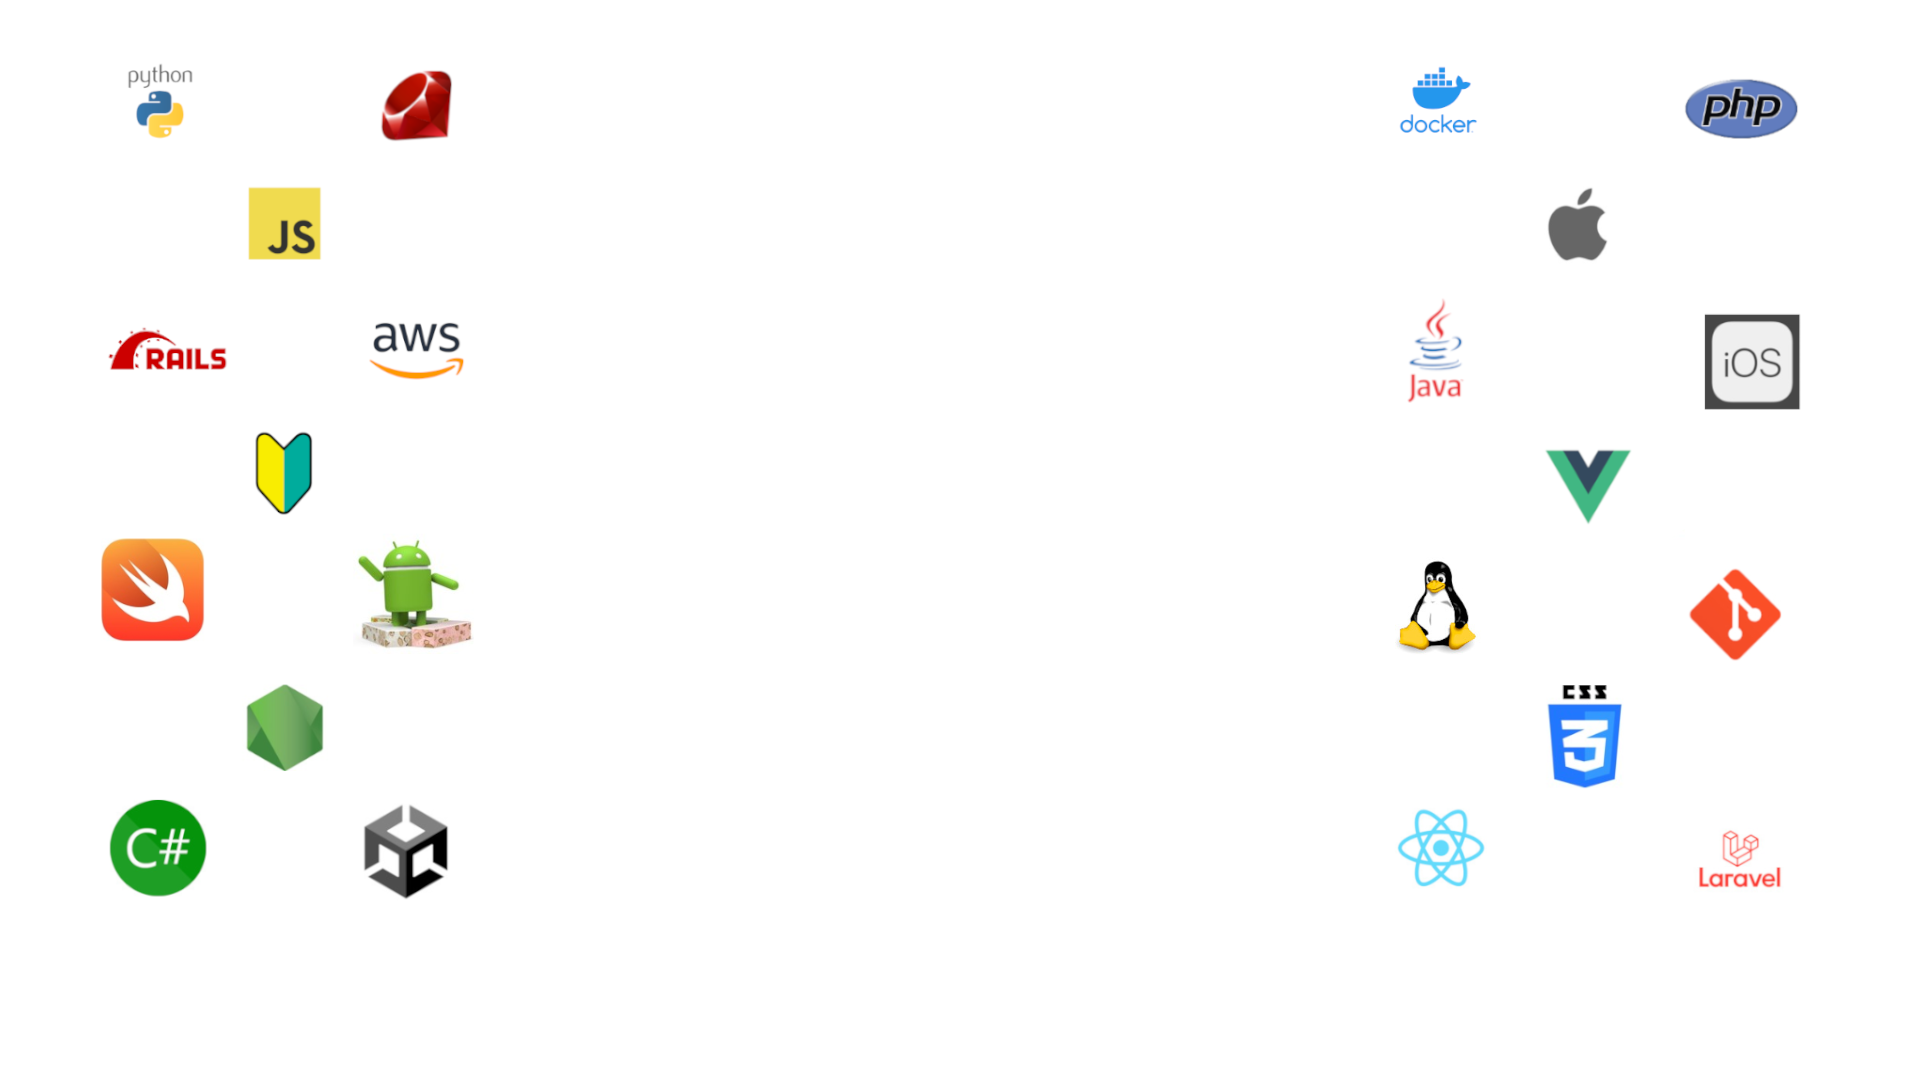
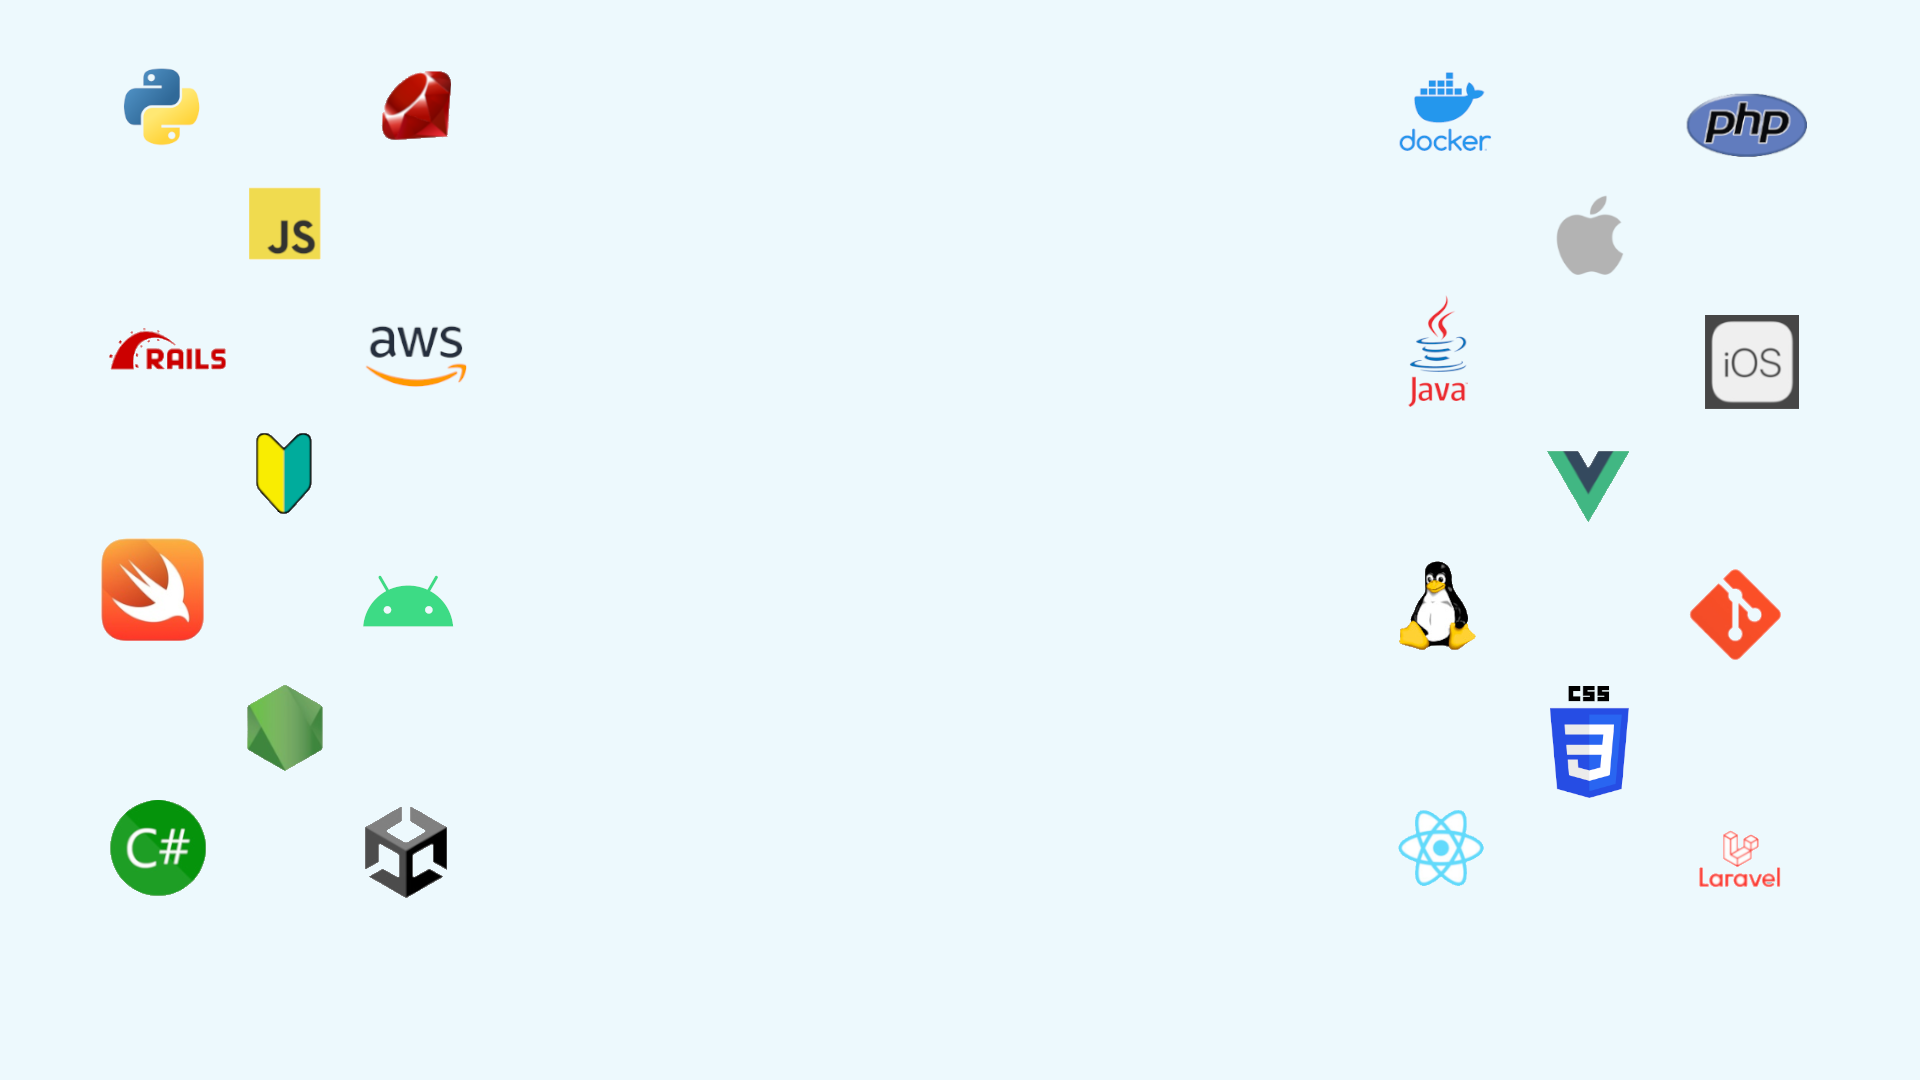
背景画像を修正

diff --git a/index.html b/index.html
@@ -146,12 +146,12 @@
 
       // クリアボタン
       const clearBtn = document.getElementById("clear-button");
-      clearBtn.addEventListener("click", (e) => {
+      clearBtn.addEventListener("click", () => {
         tag.value = "";
         greaterThan.value = "";
         lessThan.value = "";
         for (radio of sortField) {
-          radio.value = "created";
+          // 最初の項目のチェックに戻す
           radio.checked = true;
           break;
         }
@@ -159,7 +159,7 @@
         activateSubmitBtn(greaterThan, lessThan, tag, sortField);
 
         // タグのプレースホルダーをランダムに設定
-        randomTagPlaceHolder()
+        randomTagPlaceHolder();
       });
 
       // 「以上」フォームの入力時
@@ -199,20 +199,16 @@
     let submitLink = document.getElementById("submit");
 
     if (canActivate(greaterThan, lessThan, tag)) {
-      submitBtn.removeAttribute("disabled");
+      // 投稿ボタンを有効化
+      submitBtn.disabled = false;
       submitBtn.style.backgroundColor = "#55c500";
 
       // 入力値をもとに、URLを設定する。
       submitLink.href = createURL(greaterThan, lessThan, tag, sortField);
     } else {
-      submitBtn.setAttribute("disabled", true);
+      submitBtn.disabled = true;
       submitBtn.style.backgroundColor = "transparent";
     }
-  }
-
-  function randomTagPlaceHolder() {
-    let randomIndex = Math.floor(Math.random() * (tagArray.length + 1));
-    tag.placeholder = tagArray[randomIndex];
   }
 
   // 投稿ボタンを有効化できるか判定する。
@@ -258,6 +254,12 @@
     return BASE_URL + tagUrlQuery + stockUrlQuery + sortUrlQuery + CHARSET;
   }
 
+  // タグのプレースホルダーをランダムに設定
+  function randomTagPlaceHolder() {
+    let randomIndex = Math.floor(Math.random() * (tagArray.length + 1));
+    tag.placeholder = tagArray[randomIndex];
+  }
+
   // 「以上」フォームの数値が「以下」フォームの数値より大きい場合は、不正。
   // 例： ストック数 100以上、50以下の数値・・・ありえない。
   function validateNumberForm(greaterThan, lessThan) {
@@ -286,14 +288,16 @@
       /*close any already open lists of autocompleted values*/
       closeAllLists();
       if (!val) { return false;}
+
       currentFocus = -1;
       // 検索候補要素の親要素
       let autocompleteContainer = document.createElement("DIV");
-      autocompleteContainer.setAttribute("id", this.id + "autocomplete-list");
-      autocompleteContainer.setAttribute("class", "autocomplete-items");
-      // autocompleteコンテナ要素に検索候補要素リストを追加
+      autocompleteContainer.id = this.id + "autocomplete-list";
+      autocompleteContainer.className ="autocomplete-items";
+      // .autocomplete要素にautocompleteコンテナ要素を追加
+      // #tag-formの親要素がthis.parentNode
       this.parentNode.appendChild(autocompleteContainer);
-      
+
       // 検索候補数
       let count = 0;
       /*for each item in the array...*/
@@ -398,8 +402,13 @@
 ・input type="number" min="1" で入力可能な最小値を1になるのかと思ったが、入力フォームからは「0」「00」「-1」「+2」といった値を入力できる。
   一応、「1a」といった値は入力できなくなるので、そこは良い。
   「+1」と入力した値は、「1」と解釈されるっぽい
-・Qiitaで複数タグを指定して検索する場合、AND条件になる。OR条件での検索ができるか調べたが、見つからなかった。
-・removeAttribute("disabled");で属性を削除できるが、属性を追加する時は第二引数が必要。setAttribute("disabled", true);
+・リリース後にOR条件での検索ができることがわかった。
+　▼「PHP」と「PHP8」タグでストック数100以上、200以下の記事一覧を表示する場合（新着順）
+  https://qiita.com/search?sort=created&q=tag%3APHP+stocks%3A%3E%3D100+stocks%3A%3C%3D200+OR+tag%3APHP8+stocks%3A%3E%3D100+stocks%3A%3C%3D200・removeAttribute("disabled");で属性を削除できるが、属性を追加する時は第二引数が必要。setAttribute("disabled", true);
+　
+  document.getElementById("submit-button").disabled = true;
+　document.getElementById("submit-button").disabled = false; といった書き方の方が個人的にわかりやすい。。
+　ボタンの有効化、無効化で使用
 ・value != '' && /^[0-9]+$/.test(value) && !value.startsWith('0')
   ⇒parseInt(value, 10) >= 1 で条件満たせるやんけ・・
 ・正規表現 matchメソッドだと配列が返される。testメソッドだとbool値が返される。

diff --git a/README.md b/README.md
@@ -1,1 +1,10 @@
 # qiita-tag-kensaku
+
+Qiitaタグ検索くんは「指定したストック数の範囲で、指定したタグの記事一覧画面に遷移する」Webアプリです。
+「ストック数1000以上のPythonタグがついたQiitaの記事一覧を新着順で表示したい」といった使い方ができます。
+
+■URL
+https://matt-note.github.io/qiita-tag-kensaku/
+
+## 参考
+・イラスト：https://fromtheasia.com/illustration/nocopyrightmens
